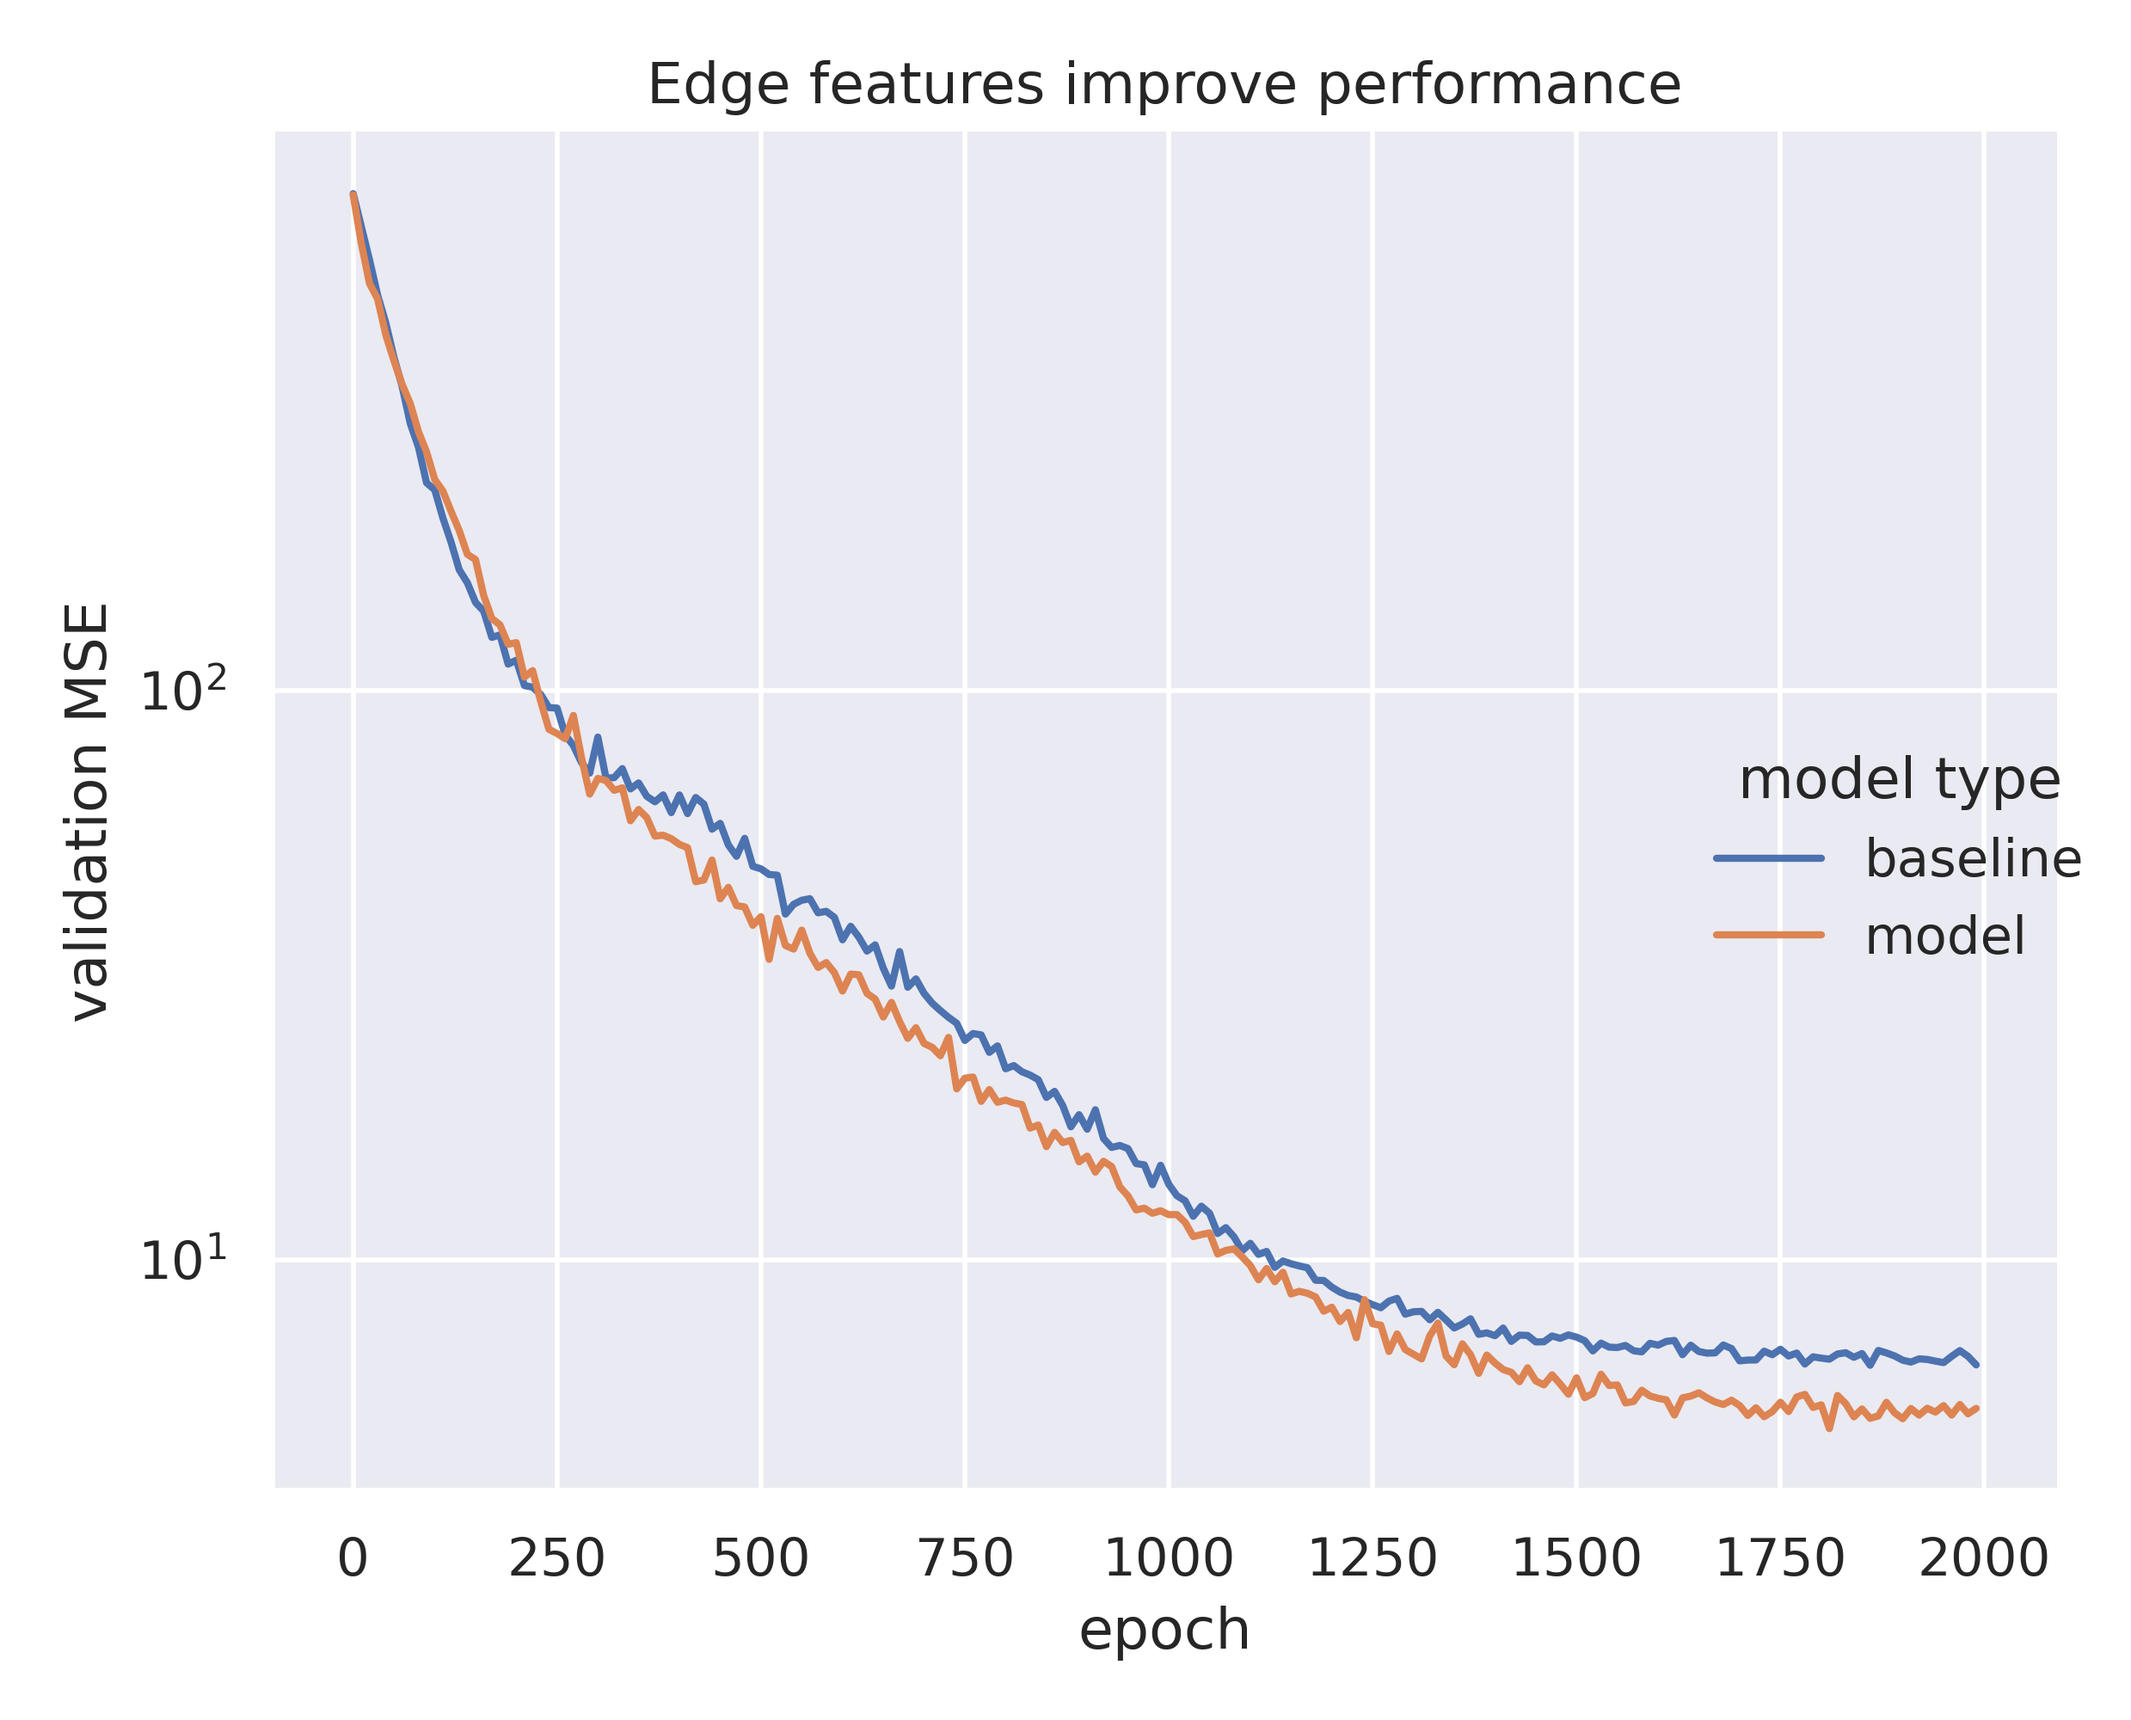
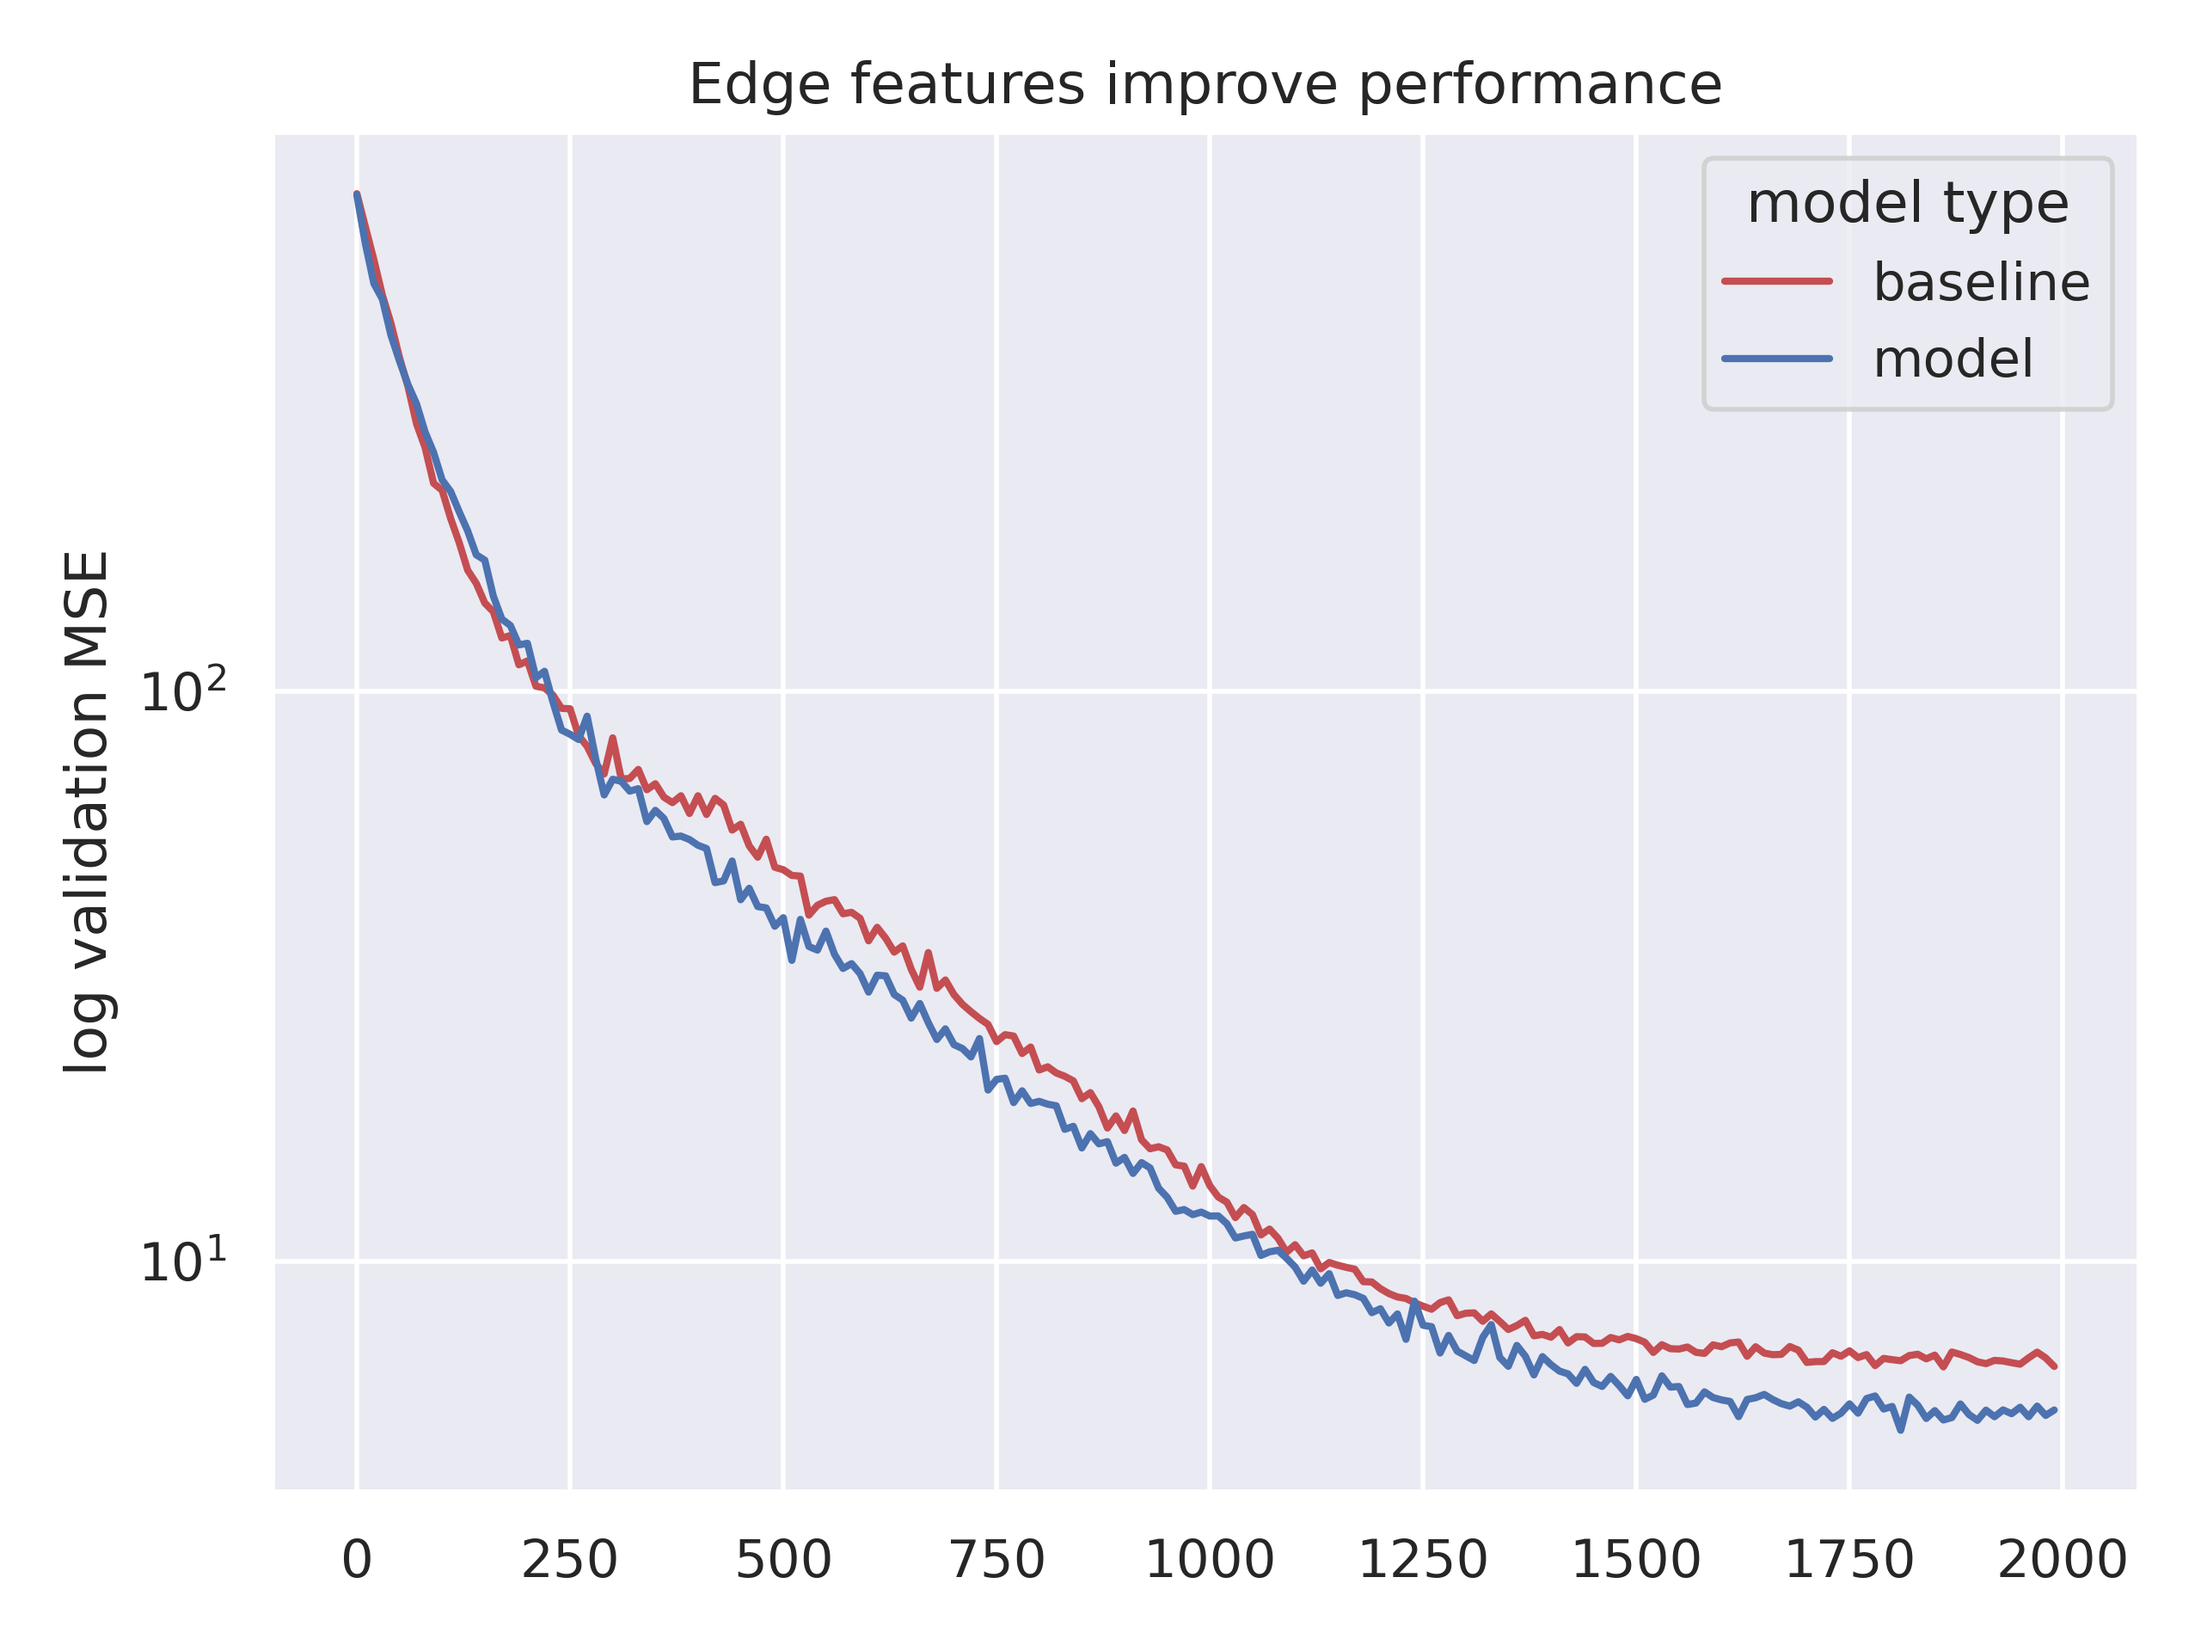
make comparison plot match other line plots

diff --git a/plot.py b/plot.py
@@ -47,15 +47,14 @@ def pred_plot(preds_df, title, out_file, max_x, max_y):
 def compare_baseline_to_model():
     baseline_loss = pd.read_csv(loss_file('baseline'), index_col=0)
     model_loss = pd.read_csv(loss_file('model'), index_col=0)
-    new_df = baseline_loss[['epoch', 'val']]
-    new_df['model_val'] = model_loss['val']
-    loss_df = pd.melt(new_df, id_vars=['epoch'], value_vars=['val','model_val'], var_name='model type', value_name='validation MSE')
-    new_names = {'val': 'baseline', 'model_val': 'model'}
-    loss_df['model type'] = loss_df['model type'].map(new_names)
-    loss_plot = sns.relplot(data=loss_df, x='epoch', y='validation MSE', hue='model type', kind='line').set(title=f"Edge features improve performance")
-    loss_plot.set(yscale='log')
+    plt.yscale('log')
+    plt.plot(baseline_loss['epoch'], baseline_loss['val'], '-r', label='baseline')
+    plt.plot(model_loss['epoch'], model_loss['val'], '-b', label='model')
+    plt.legend(loc='upper right', title='model type')
+    plt.ylabel('log validation MSE')
+    plt.title('Edge features improve performance')
     plt.tight_layout()
-    loss_plot.fig.savefig(f'plots/comparison_loss.png', dpi=400)
+    plt.savefig(f'plots/comparison_loss.png', dpi=400)
 
 # Now, make the plots!
 compare_baseline_to_model()
